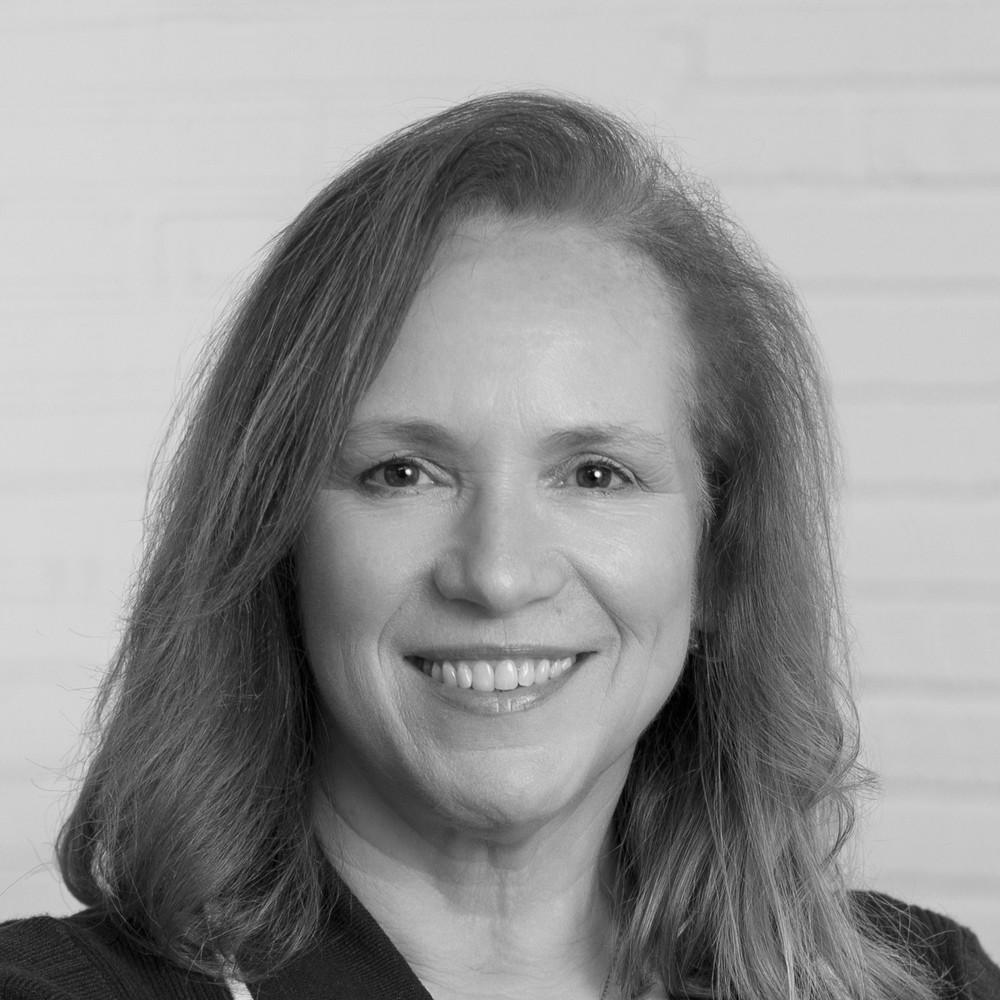
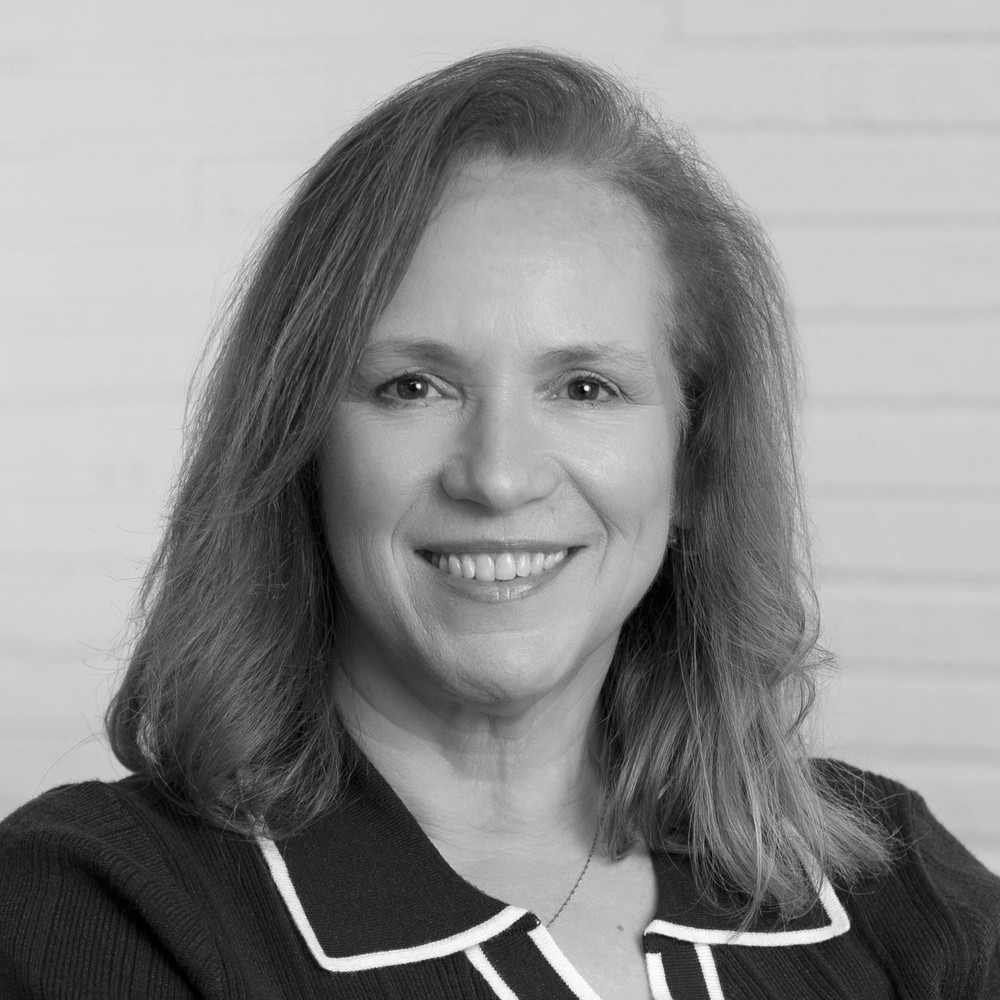
Re-crop Mimi Rasor's headshot so her head isn't cut off in cards

diff --git a/speakers/index.html b/speakers/index.html
@@ -382,7 +382,7 @@ class Component extends DCLogic {
       { name: 'Troy Woolery', role: 'Director of Business Development', company: 'Vaco', track: 'b2c', sessionShort: 'B2C Panel Moderator', session: 'B2C Breakout Panel', slot: 'Barn Room', bio: 'Troy Woolery is a business development and technology solutions executive with more than 20 years of experience helping organizations turn complex business challenges into measurable growth. As Director of Business Development at Vaco/Highspring, he partners with enterprise leaders across AI, digital transformation, product strategy, customer experience, analytics, and workforce solutions.\n\nTroy’s career includes leadership roles with Procter & Gamble, Kroger, Fusion Alliance, and Grey Midwest, as well as serving as an adjunct professor at Miami University. He brings a practitioner’s perspective to the intersection of technology, customer experience, and human-led growth.', photo: '../assets/speakers/Troy_Woolery.jpg' },
       { name: 'Alex Schutte', role: 'Senior Vice President, Marketing', company: 'Hubstaff', track: 'b2b', sessionShort: 'B2B Panelist', session: 'B2B Breakout Panel', slot: 'The Theatre', bio: 'Alex Schutte is SVP of Marketing at Hubstaff, where he leads a global remote marketing organization focused on helping businesses improve productivity, workforce intelligence, and operational efficiency. He’s spent nearly two decades helping B2B SaaS companies connect marketing activity to revenue, most notably during his eight-plus years at Paycor, where his team helped grow revenue contribution by more than 500% as the company scaled from founder-led to public.\n\nAlex is a data-driven marketer at his core. He believes that growth comes from focus, not chasing every opportunity, and that the best marketing organizations balance creativity with accountability. His teams drive measurable growth through disciplined execution, clear prioritization, and close alignment with revenue goals.\n\nOutside of work, Alex serves on the board of Ensemble Theatre and the ELT of March of Dimes Cincinnati, and is even a certified Bourbon Steward. In 2020, he was named to the Cincinnati Business Courier’s Forty Under 40.', photo: '../assets/speakers/Alex_Schutte.jpg' },
       { name: 'Diti Bhasin', role: 'Chief Marketing Officer', company: 'Kolar Design', track: 'b2b', sessionShort: 'B2B Panelist', session: 'B2B Breakout Panel', slot: 'The Theatre', bio: 'Full bio coming soon.', photo: '../assets/speakers/Diti_Bhasin.jpg', pos: 'center 30%' },
-      { name: 'Mimi Rasor', role: 'President', company: 'Rasor Marketing and Communications', track: 'b2b', sessionShort: 'B2B Panelist', session: 'B2B Breakout Panel', slot: 'The Theatre', bio: 'Full bio coming soon.', photo: '../assets/speakers/Mimi_Rasor.jpg', pos: 'center 15%' },
+      { name: 'Mimi Rasor', role: 'President', company: 'Rasor Marketing and Communications', track: 'b2b', sessionShort: 'B2B Panelist', session: 'B2B Breakout Panel', slot: 'The Theatre', bio: 'Full bio coming soon.', photo: '../assets/speakers/Mimi_Rasor.jpg', pos: 'center 5%' },
       { name: 'Mike Thomas', role: 'Owner and CEO', company: 'Upstream 360', track: 'b2b', sessionShort: 'B2B Panelist', session: 'B2B Breakout Panel', slot: 'The Theatre', bio: 'Mike Thomas is an author, entrepreneur, and unapologetic curious nerd fascinated by the intersection of science, innovation, business, and human behavior. As Owner and CEO of Upstream 360, The Product Communication Agency, he helps brands uncover what makes their products remarkable and turn that truth into stories, demonstrations, and experiences people can understand and believe.\n\nBefore joining Upstream 360, Mike spent 17 years at Procter & Gamble across R&D, innovation, and marketing. A chemical engineer with an MBA, he brings a rare perspective that spans the lab, the business, and the story. He is also co-author of Who How WOW: The Curiously Nerdy Guide to Product Communication.', photo: '../assets/speakers/Mike_Thomas.jpg', pos: 'center 10%' },
       { name: 'Stephen Brent May', role: 'Founder, One Foot Over · Host, B2B Happy Hour Podcast', company: 'One Foot Over', track: 'b2b', sessionShort: 'B2B Panel Moderator', session: 'B2B Breakout Panel', slot: 'The Theatre', bio: 'Full bio coming soon.', photo: '../assets/speakers/Stephen_Brent_May.jpg' },
       { name: 'Hami Arrington', role: 'Co-Founder, One Foot Over · Host, B2B Happy Hour Podcast', company: 'One Foot Over', track: 'b2b', sessionShort: 'B2B Panel Moderator', session: 'B2B Breakout Panel', slot: 'The Theatre', bio: 'Full bio coming soon.', photo: '../assets/speakers/Hami_Arrington.jpg', pos: 'center 55%' },

diff --git a/agenda/index.html b/agenda/index.html
@@ -345,7 +345,7 @@ class Component extends DCLogic {
     const personalizeB2B = panel(
       b2bModerators,
       [ { initial: 'DB', name: 'Diti Bhasin', title: 'CMO, Kolar Design', color: C[0], photo: '../assets/speakers/Diti_Bhasin.jpg', pos: 'center 30%' },
-        { initial: 'MR', name: 'Mimi Rasor', title: 'President, Rasor Marketing and Communications', color: C[2], photo: '../assets/speakers/Mimi_Rasor.jpg', pos: 'center 15%' } ]);
+        { initial: 'MR', name: 'Mimi Rasor', title: 'President, Rasor Marketing and Communications', color: C[2], photo: '../assets/speakers/Mimi_Rasor.jpg', pos: 'center 5%' } ]);
 
     const allSlots = [
       { time: '8:30 AM', duration: '45 min', items: [ mk('breakType', { title: 'Doors Open & Registration', desc: 'Check in, grab coffee and a light breakfast, and find your people.' }) ] },
